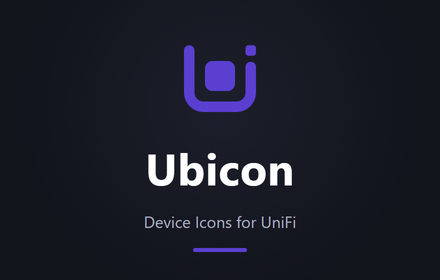
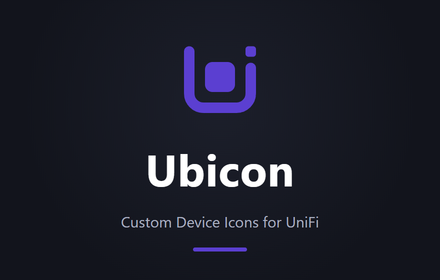
Add popup-overlay screenshot, update promo tagline

diff --git a/docs/store-listing.md b/docs/store-listing.md
@@ -5,7 +5,7 @@
 - Privacy policy URL: https://github.com/tvirelli/Ubicon/blob/main/PRIVACY.md
 - Homepage / support: https://github.com/tvirelli/Ubicon
 - Version: 0.1.0
-- Screenshots (docs/store/images/): 01-clients-table.png (1280x800)
+- Screenshots (docs/store/images/): 01-clients-table.png, 02-popup-overlay.png (both 1280x800)
 - Small promo tile: promo-tile-440x280.png (440x280)
 
 ## Name
